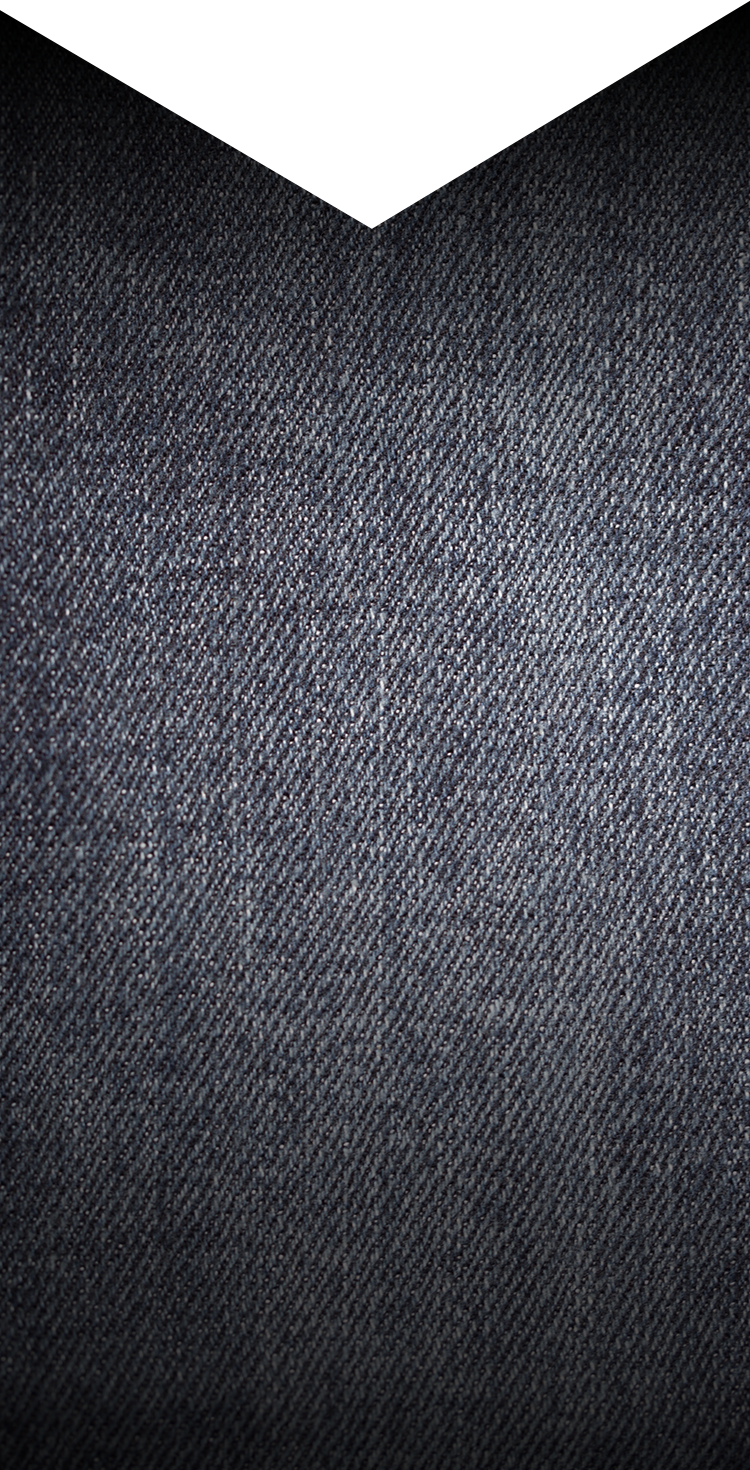
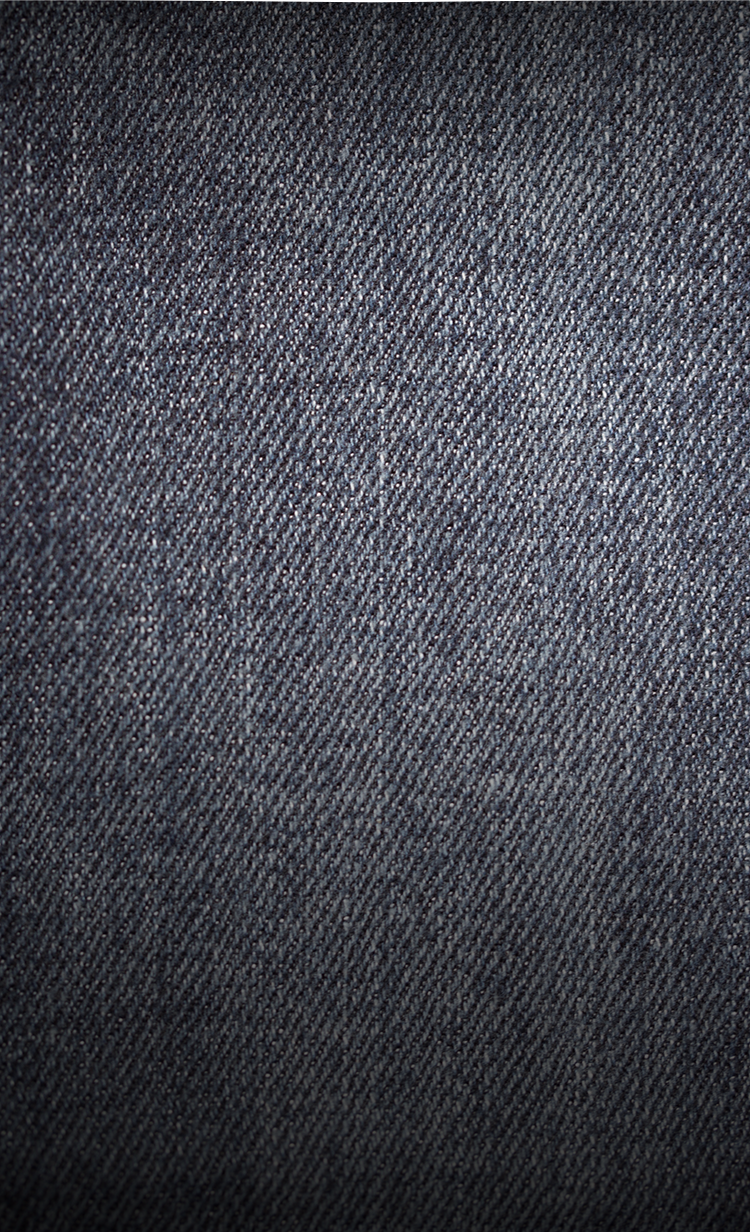
Add files via upload

diff --git a/result.html b/result.html
@@ -54,16 +54,15 @@
 			<!-- Swiper -->
 			<div class="swiper-container-color-b">
 				<div class="swiper-wrapper">
-					<div class="swiper-slide"><img width="375" src="images/color-b-1.png"></div>
-					<div class="swiper-slide"><img width="375" src="images/color-b-2.png"></div>
-					<div class="swiper-slide"><img width="375" src="images/color-b-3.png"></div>
-					<div class="swiper-slide"><img width="375" src="images/color-b-4.png"></div>
+					<div class="swiper-slide"><img width="375" height="734" src="images/color-b-1.png"></div>
+					<div class="swiper-slide"><img width="375" height="734" src="images/color-b-2.png"></div>
+					<div class="swiper-slide"><img width="375" height="734" src="images/color-b-3.png"></div>
+					<div class="swiper-slide"><img width="375" height="734" src="images/color-b-4.png"></div>
 				</div>
 			</div>			
 			<div id="color">
 				<div class="section-header">
 					<h3>DENIM COLOR</h3>
-					<span>Short explanation of what this is and how we chose it for you. This is because you’re a fucking rockstar</span>
 				</div>
 				<h4>BRIGHTNESS</h4>
 				<div class="range">

diff --git a/result.css b/result.css
@@ -166,7 +166,7 @@ body {
 		margin-left: 21px;
 		z-index: 20;
 		position: absolute;
-		margin-top: 72px;
+		margin-top: 35px;
 	}
 	.sticky-pants img {
 		margin-top: 20px;
@@ -192,7 +192,7 @@ body {
 		color: #fff;
 	}
 	#color .section-header {
-		top: -293px;
+		top: -377px;
 		right: 0;
 	}
 	#color h3 {
